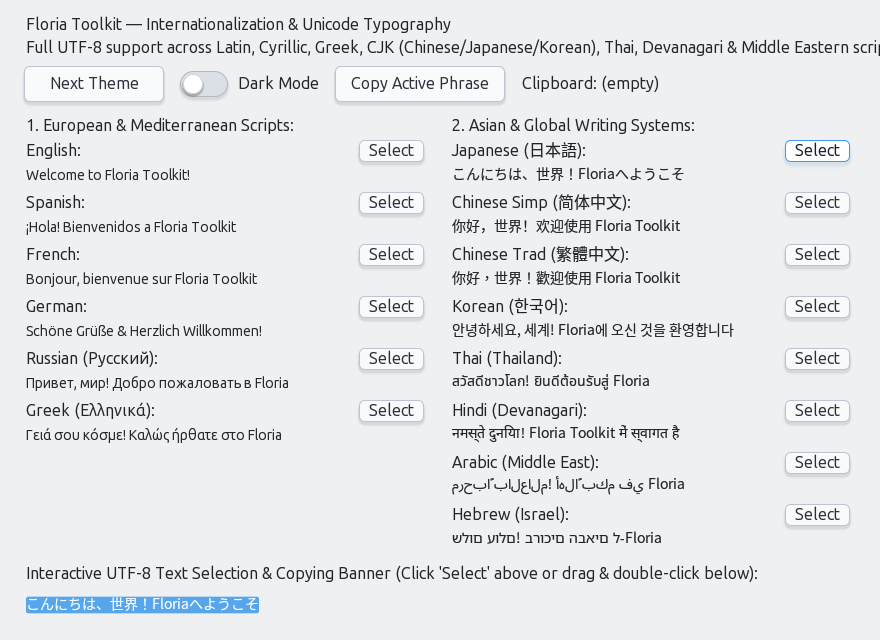
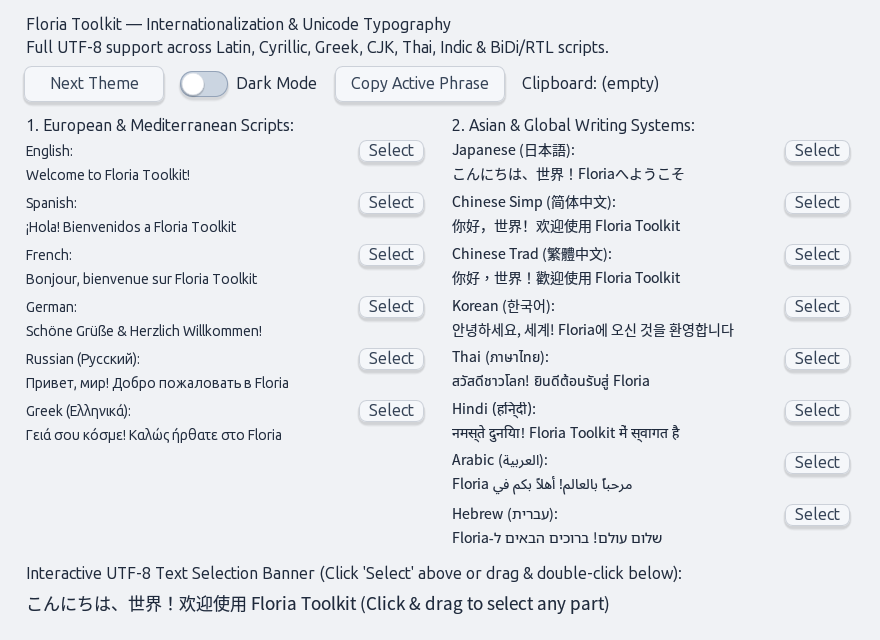
docs: add multilingual typography and script shaping to README showcase

diff --git a/README.md b/README.md
@@ -49,6 +49,10 @@ A lightweight, high-performance native GUI toolkit engineered with Free Pascal, 
 - **First-Class X11 & Pluggable Backends**:
   - Premier native X11/XCB integration with microsecond event dispatch, EWMH window management, and compositor blur protocols.
   - Pluggable `TFtWindow` abstraction ready for future WinAPI, Cocoa, and Wayland backends.
+- **Internationalization, BiDi & Script Shaping**:
+  - Full UTF-8 Unicode text rendering across global writing systems (Latin, Cyrillic, Greek, CJK, Thai, Indic/Devanagari, Arabic, Hebrew).
+  - Unicode Bidirectional Algorithm (UAX #9) visual reordering and bracket mirroring for RTL scripts.
+  - Pure-Pascal contextual Arabic cursive shaping supporting isolated, initial, medial, and final forms and Lam-Alef ligatures.
 - **Universal C ABI & Rock-Solid Stability**:
   - Standalone shared library (`libft.so`) exposing a frozen, append-only C ABI via `include/ft.h`.
   - Adopts the **Windows API standard of stability**: zero ABI churn between minor releases, opaque pointer handles, and permanent backward compatibility across language bindings (C, C++, Python, Rust, Zig, Go, Pascal).
@@ -92,6 +96,10 @@ Comprehensive documentation is available in the [`docs/`](docs/) directory:
 ### 60 FPS CSS Transitions & Animations
 ![CSS Transitions and Animations Showcase](docs/screenshots/floria_css_animation.gif)
 *Smooth 60 FPS CSS transition engine showcasing color morphing, border radius morphing (rectangle to pill), pulsating border outlines, cubic-bezier timing functions, and dynamic inline style transitions with zero CPU usage when idle.*
+
+### Multilingual Typography, BiDi & Script Shaping
+![Multilingual Typography, BiDi and Script Shaping Showcase](docs/screenshots/floria_multilingual.png)
+*Full UTF-8 internationalization featuring CJK (Japanese, Simplified & Traditional Chinese, Korean), Thai, Indic (Hindi), and Right-to-Left (RTL) Bidirectional text layout with contextual Arabic cursive shaping and Hebrew bracket mirroring.*
 
 ---
 
